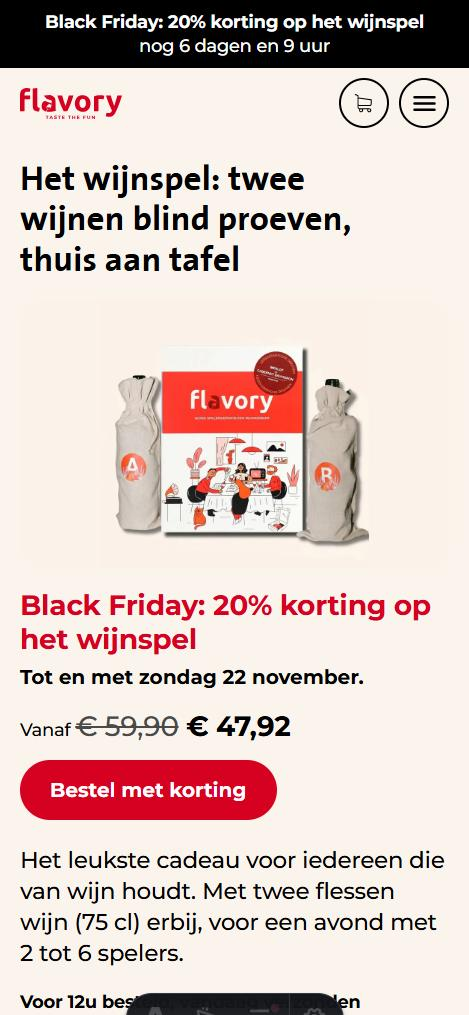
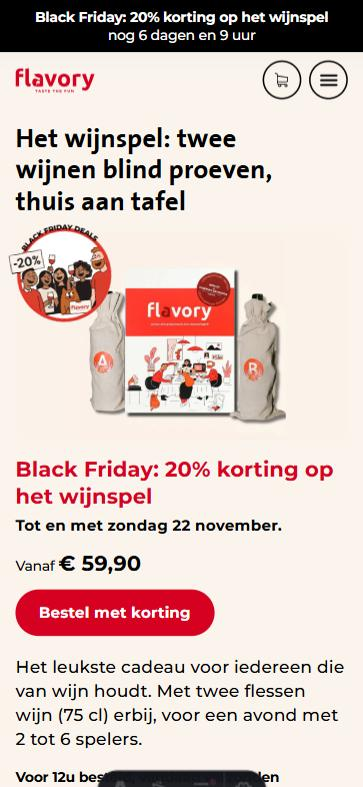
feat: add the Black Friday drawing to the home page and centre the box photos
The first screen gets the drawing of the 2025 campaign (the friends with their '-20%' sign) as a sticker on the corner of the box photo. It only shows while SITE.blackFriday.drawing is '20', because the discount is written in the drawing. The box cards now use the photo of the box on its own, whole and centred: the packshots with the two bags are cut off at the right edge of the photo itself. On a phone the photo is a small square next to the name, which also makes the three cards a third shorter.

diff --git a/src/styles/global.css b/src/styles/global.css
@@ -192,6 +192,22 @@
       aspect-ratio: 1;
     }
   }
+  /* The Black Friday drawing, stuck on the top left corner of the box photo like a sticker. */
+  .bf-sticker {
+    position: absolute;
+    top: -0.5rem;
+    left: -0.25rem;
+    width: 30%;
+    height: auto;
+    rotate: -8deg;
+  }
+  @media (min-width: 48rem) {
+    .bf-sticker {
+      top: -1rem;
+      left: -1rem;
+      width: 38%;
+    }
+  }
   .h2 {
     font-size: var(--text-h2);
   }
@@ -309,13 +325,13 @@
   .badge {
     @apply rounded-full px-2.5 py-1 text-xs font-bold;
   }
-  /* Box card on the home page (BoxShelf.astro): photo, price and the buttons. On a phone the photo is a
-     low band so three cards stay short; from md up it is a square. */
+  /* Box card on the home page (BoxShelf.astro): photo, price and the buttons. The photo is always a whole
+     square: small next to the name on a phone, so three cards stay short, and full width from md up. */
   .box-card {
     @apply flex flex-col overflow-hidden rounded-[var(--radius-card)] border border-line bg-white;
   }
   .box-card-img {
-    @apply aspect-[16/10] w-full bg-[#fbf2e9] object-contain md:aspect-square;
+    @apply size-28 shrink-0 rounded-xl object-cover md:aspect-square md:h-auto md:w-full md:rounded-none;
   }
   /* Price before the discount, next to the sale price (Price.astro and lib/commerce/price.ts). */
   .price-old {

diff --git a/src/lib/site.ts b/src/lib/site.ts
@@ -72,6 +72,9 @@ export const SITE = {
     endDate: 'zondag 22 november' as string,
     // The same moment for the countdown: the end of that day, Brussels time. Empty: no countdown.
     endsAt: '2026-11-22T23:59:59+01:00' as string,
+    // The Black Friday drawing on the home page (the friends with their signs, from the 2025 campaign).
+    // '20' is the drawing whose sign says "-20%": only while the discount is 20%. Empty: no drawing.
+    drawing: '20' as '' | '20',
   },
   ageNotice: 'Wijn: enkel voor 16+ (België) en 18+ (Nederland)',
   gtmId: 'GTM-MPJ8DPDM',
